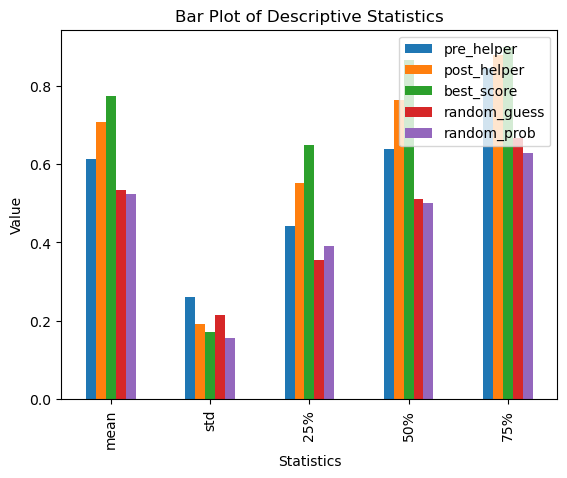
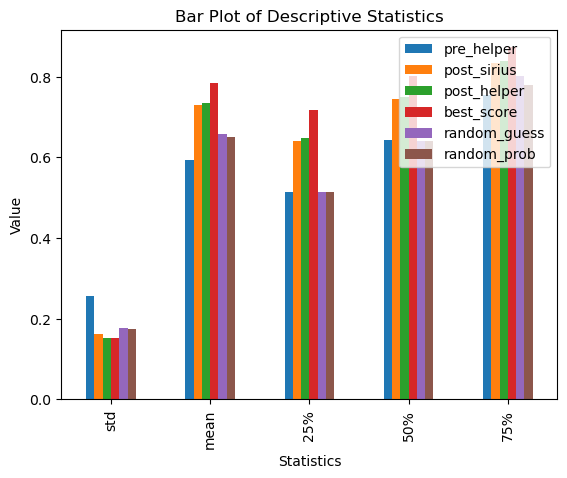
apply sirius on the molecule

diff --git a/Analysis/check_with_helper.py b/Analysis/check_with_helper.py
@@ -81,8 +81,15 @@ def process_element(element):
         modifLoc = utils.calculateModificationSites(modifMol, molMol, False)
         peak_presence_only = True
         combine = True
-        # calculate score
+        # calculate score 
         pre_helper = site.accuracy_score(modifLoc[0], peak_presence_only=peak_presence_only, combine=combine, return_all=True)
+        try:
+            molSirius = json.load(open(os.path.join(helperDirectory, m1 + "_fragmentationtree.json")))
+            site.apply_sirius(molSirius)
+        except:
+            print ("error finding sirius file for molecule")
+            pass
+        post_sirius = site.accuracy_score(modifLoc[0], peak_presence_only=peak_presence_only, combine=combine, return_all=True)
         for helper in helpers.get(m1, []):
             if helper != m0:
                 helperFile = json.load(open(os.path.join(helperDirectory, helper + "_fragmentationtree.json")))
@@ -95,6 +102,7 @@ def process_element(element):
                     import traceback
                     traceback.print_exc()
                     pass
+                break
         post_helper = site.accuracy_score(modifLoc[0], peak_presence_only=peak_presence_only, combine=combine, return_all=True)
 
         # generate random probability array 1-hot
@@ -115,7 +123,7 @@ def process_element(element):
                                                         "delta_mass": abs(float(data_dict_filtered[m0]['Precursor_MZ']) - float(data_dict_filtered[m1]['Precursor_MZ'])),
                                                         "#_matched_peaks": len(site.matchedPeaks), "#_shifted_peaks": len(site.shifted), "#_unshifted_peaks": len(site.unshifted),
                                                         "Closest_Max_Atom_Distance": pre_helper['closestMaxAtomDistance'], "Count_Max": pre_helper['count'], "Is_Max": pre_helper['isMax'], "cosine":site.cosine, 
-                                                        "pre_helper": float(pre_helper['score']), "post_helper": float(post_helper['score']), "best_score": maxScore, "random_guess":res2['score'], "random_prob":res3['score'], 
+                                                        "pre_helper": float(pre_helper['score']), "post_sirius": float(post_sirius['score']) ,"post_helper": float(post_helper['score']), "best_score": maxScore, "random_guess":res2['score'], "random_prob":res3['score'], 
                                                         "url":visualizer.make_url("http://reza.cs.ucr.edu/", molUsi, modifUsi, molSmiles, modifSmiles, args=None) }
         return row
     except:
@@ -126,7 +134,7 @@ def process_element(element):
 
 if __name__ == '__main__':
     # Define your array of elements
-    array = list(range(min(len(matches_array), 10000)))
+    array = list(range(min(len(matches_array), 30000)))
 
     # Create a multiprocessing pool with desired number of processes
     pool = mp.Pool(processes=16)  # Use 16 processes, adjust as needed
@@ -144,17 +152,15 @@ if __name__ == '__main__':
 
     # Create a dataframe from the results
     df = pd.DataFrame(results)
-    print(df[['pre_helper','post_helper', "best_score", "random_guess", "random_prob"]].describe())
+    resultColumns = ['pre_helper', 'post_sirius','post_helper', "best_score", "random_guess", "random_prob"]
+    print(df[resultColumns].describe())
 
     # select the rows that have a score difference
     df2 = df[df['pre_helper'] != df['post_helper']]
-    print(df2[['pre_helper','post_helper', "best_score", "random_guess", "random_prob"]].describe())
+    print(df2[resultColumns].describe())
     
-    df_stats = df[['pre_helper','post_helper', "best_score", "random_guess", "random_prob"]].describe()
-
-    # Visualize the statistics using plots and save the figures
-    # Box plots for showing min, 25th percentile, median, 75th percentile, and max
-    bar_plot = df_stats.loc[['mean', 'std', '25%', '50%', '75%']].plot(kind='bar', legend=True)
+    df_stats = df[resultColumns].describe()
+    bar_plot = df_stats.loc[['std', 'mean', '25%', '50%', '75%']].plot(kind='bar', legend=True)
     plt.title('Bar Plot of Descriptive Statistics')
     plt.xlabel('Statistics')
     plt.ylabel('Value')
@@ -162,8 +168,8 @@ if __name__ == '__main__':
     plt.savefig('df_stats_box_plot.png', bbox_inches='tight')
     plt.close()
 
-    df2_stats = df2[['pre_helper','post_helper', "best_score", "random_guess", "random_prob"]].describe()
-    bar_plot = df2_stats.loc[['mean', 'std', '25%', '50%', '75%']].plot(kind='bar', legend=True)
+    df2_stats = df2[resultColumns].describe()
+    bar_plot = df2_stats.loc[['std', 'mean', '25%', '50%', '75%']].plot(kind='bar', legend=True)
     plt.title('Bar Plot of Descriptive Statistics')
     plt.xlabel('Statistics')
     plt.ylabel('Value')
